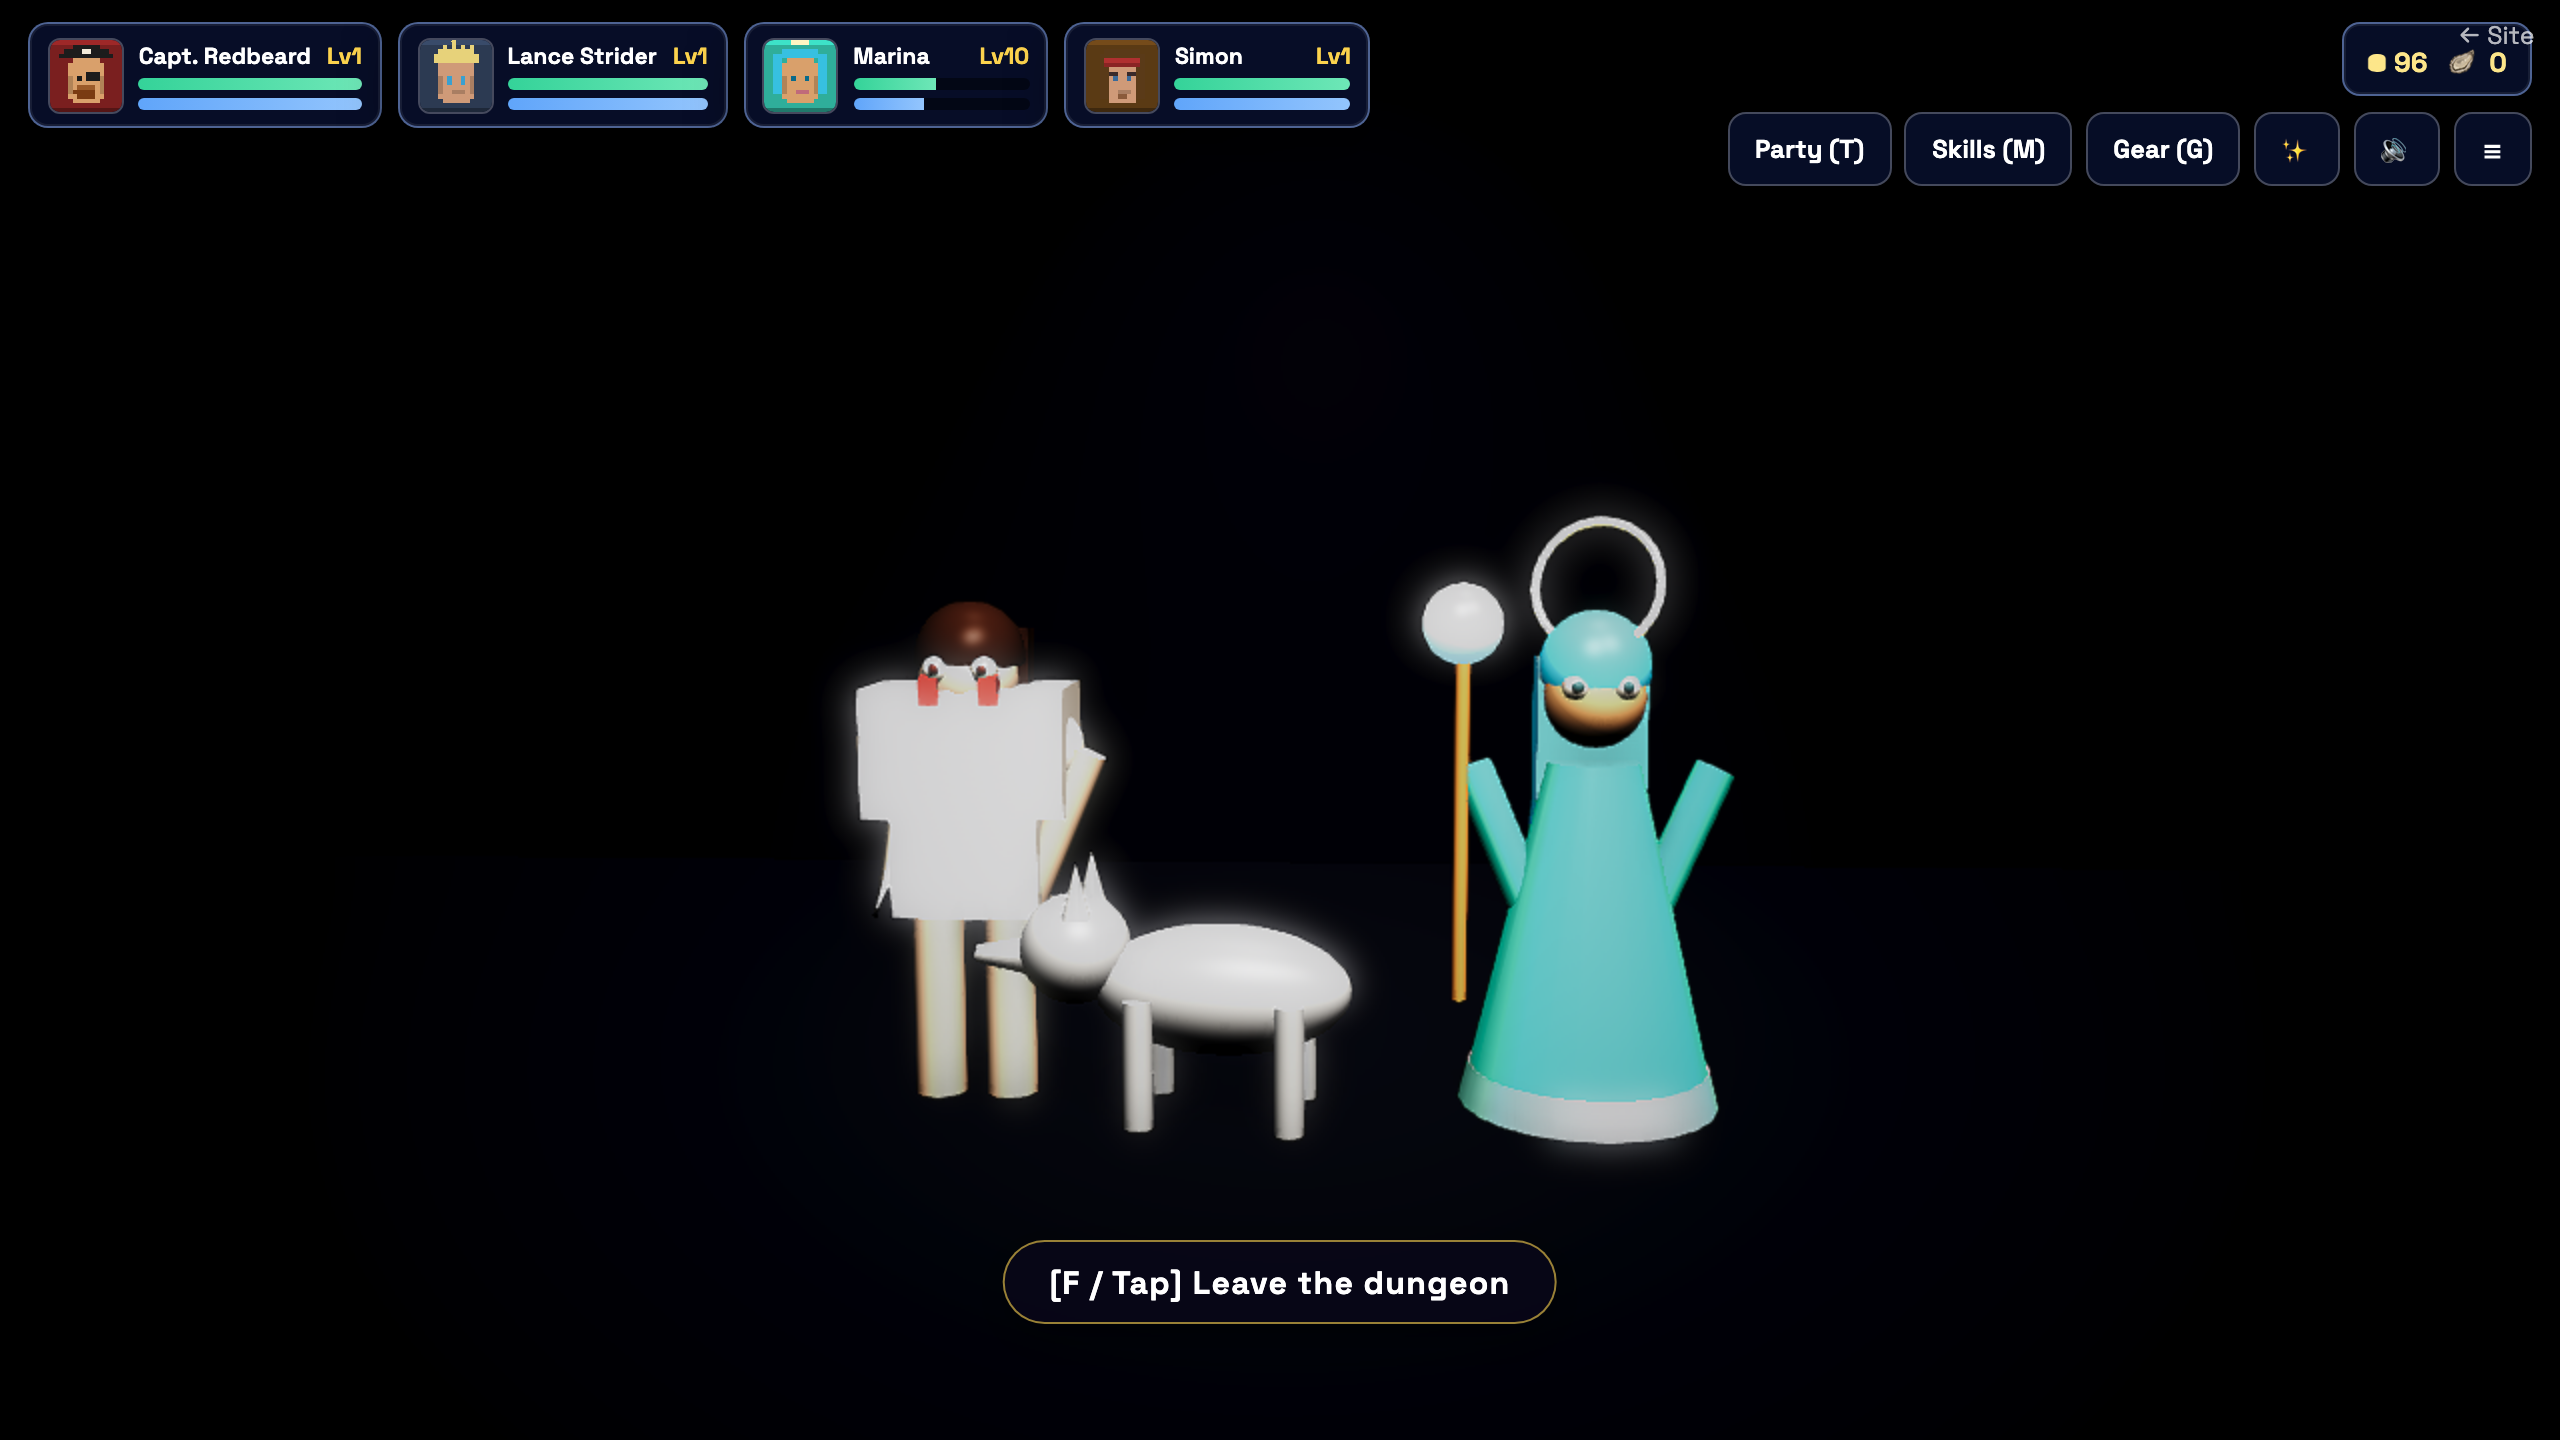
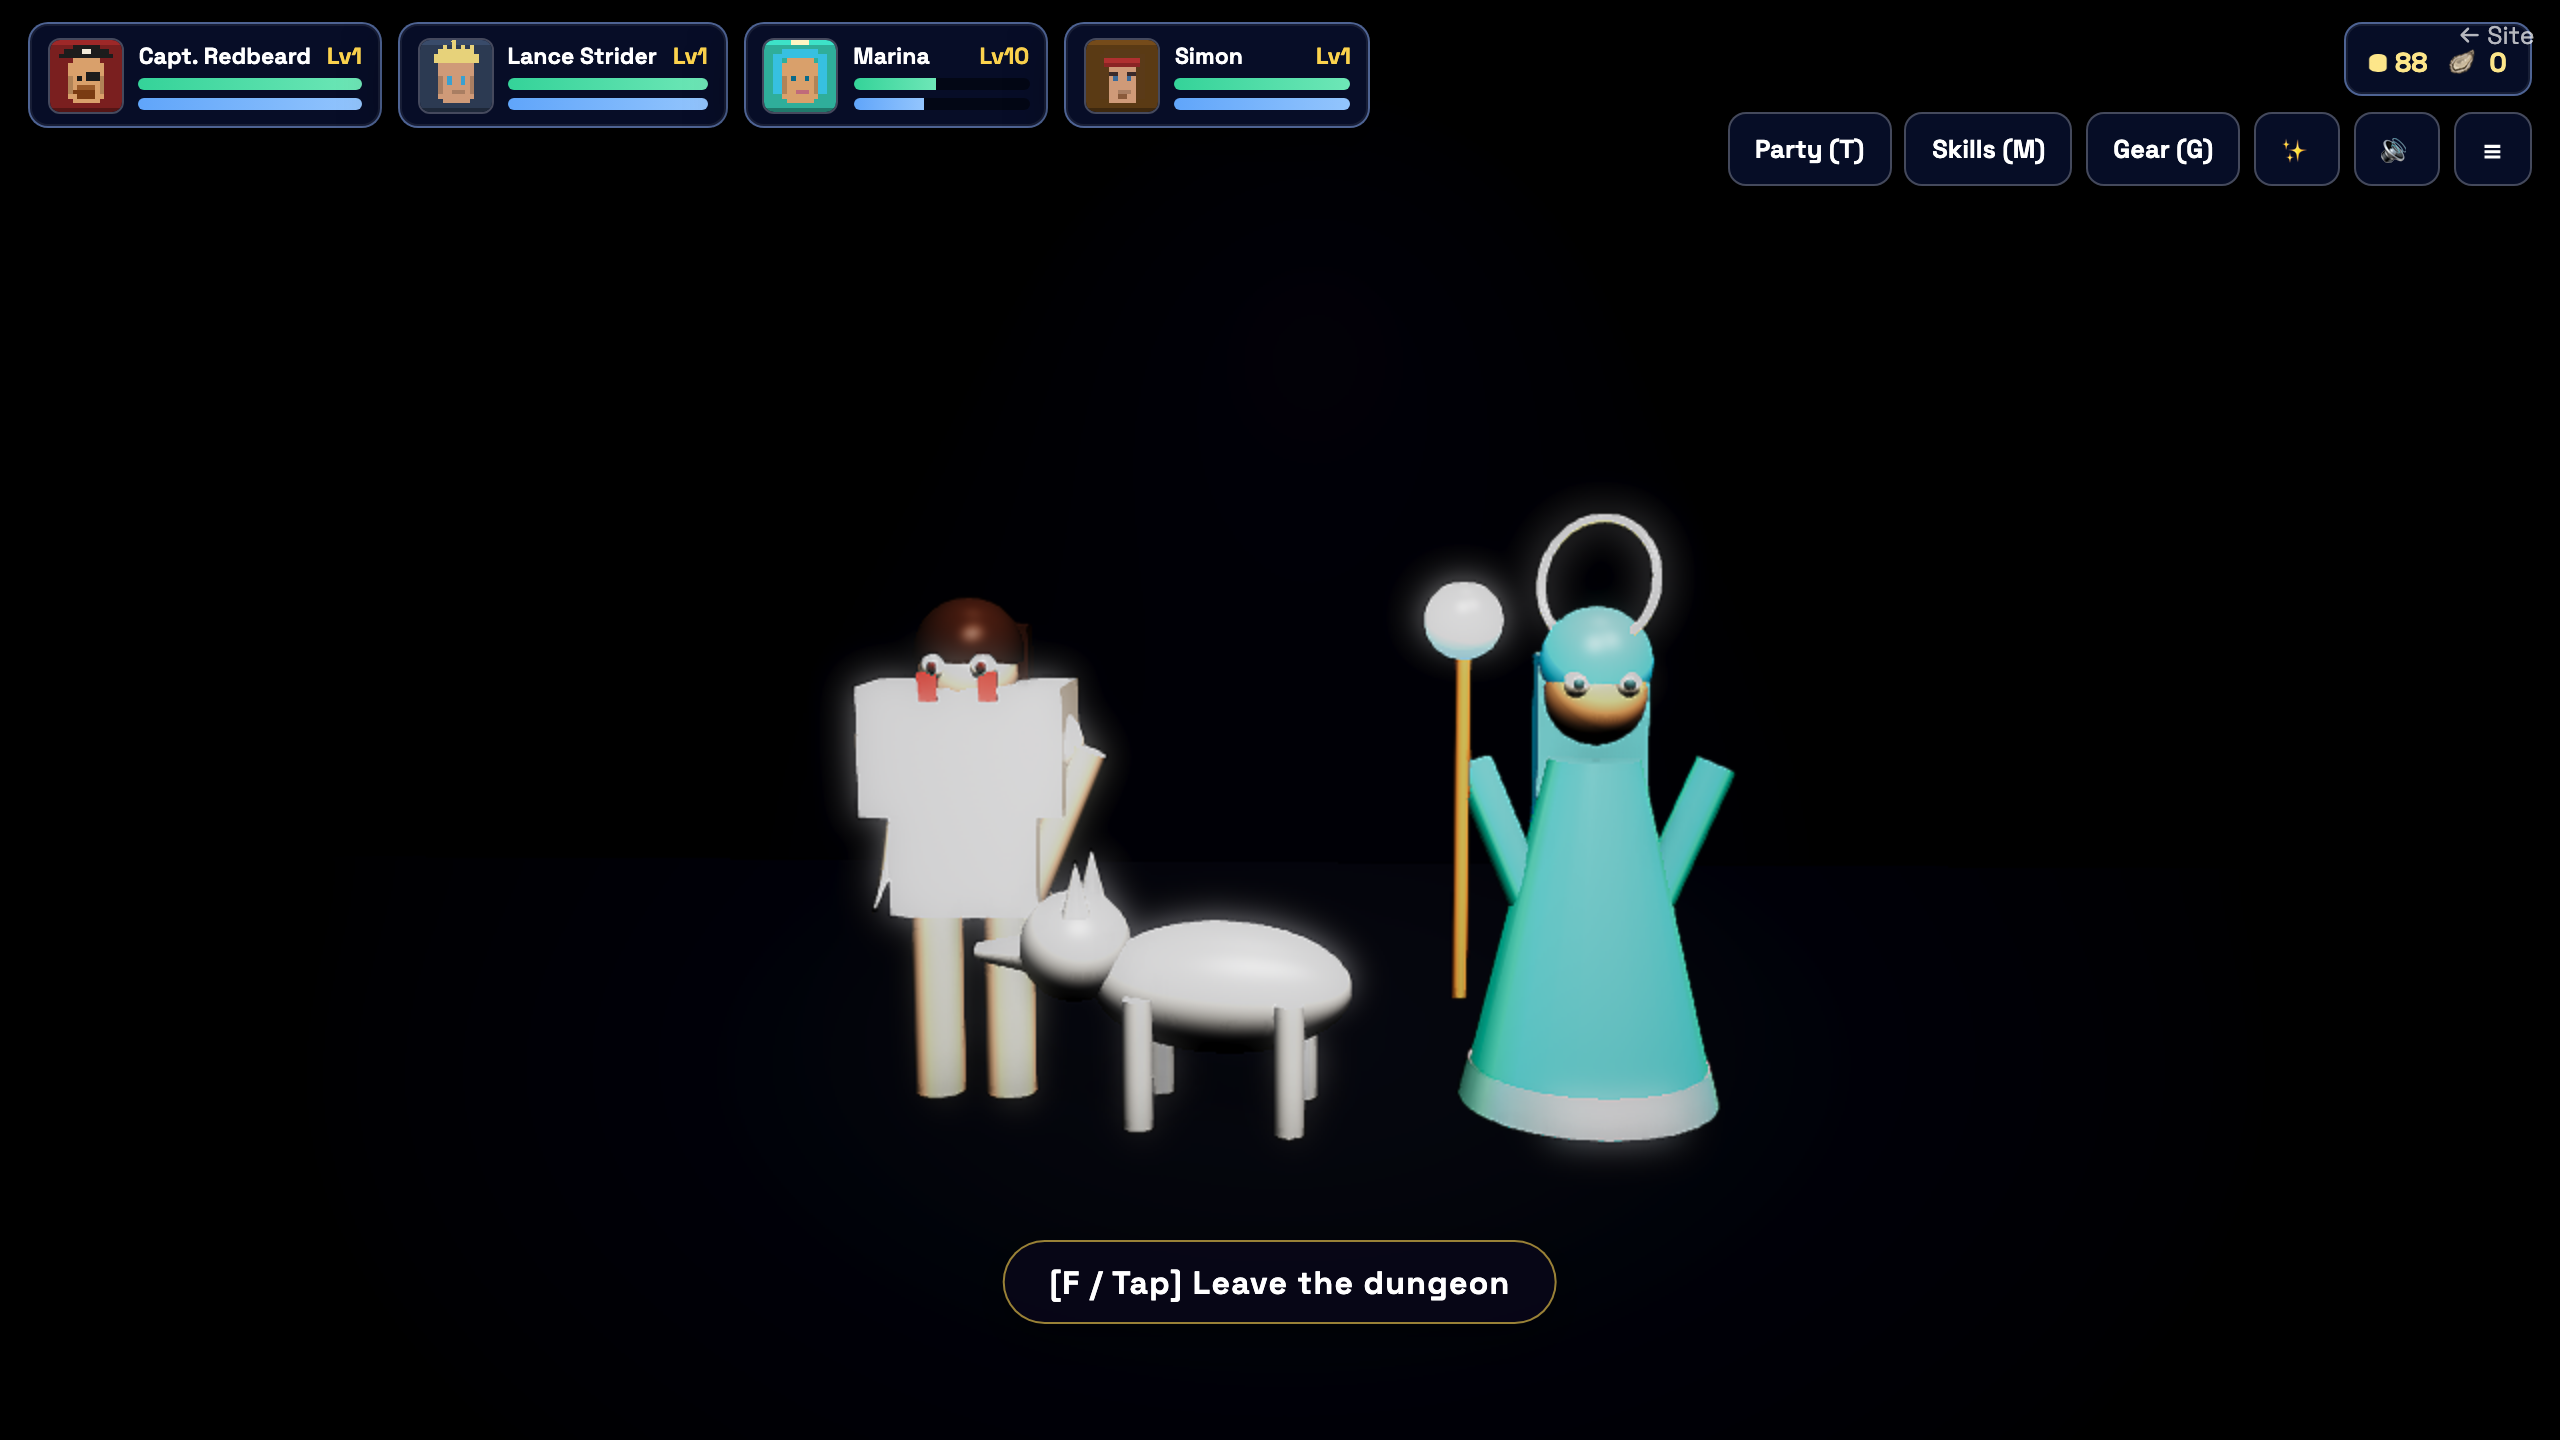
chore(capture): 35 screenshots @ 2026-06-19 (0 errors)

diff --git a/captures/latest/REPORT.md b/captures/latest/REPORT.md
@@ -1,9 +1,9 @@
-# Capture report — 2026-06-19T14:44:29.649Z
+# Capture report — 2026-06-19T14:57:13.063Z
 
 ## JS errors: 0
 _none — no runtime errors caught_
 
-## States captured (34)
+## States captured (35)
 - ✅ `01_overworld_tidehaven.png`
 - ✅ `02_overworld_paegina.png`
 - ✅ `03_overworld_duskmoor.png`
@@ -38,11 +38,12 @@ _none — no runtime errors caught_
 - ✅ `32_battle_omega.png`
 - ✅ `33_battle_sentinel.png`
 - ✅ `34_cutscene_reactor.png`
+- ✅ `35_dungeon_npc.png`
 
 ## Game-state snapshot
 ```json
 {
-  "gold": 96,
+  "gold": 88,
   "pearls": 0,
   "active": [
     "pirate",
